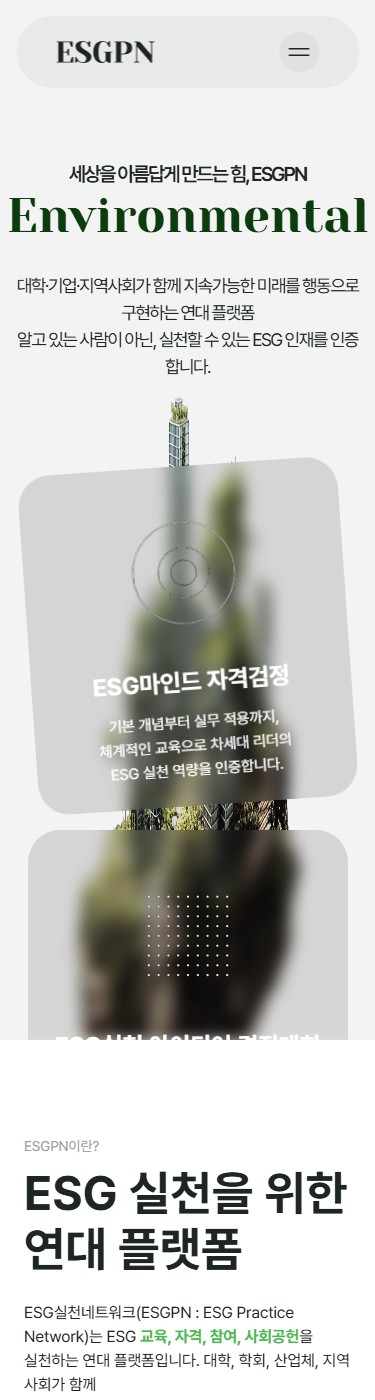
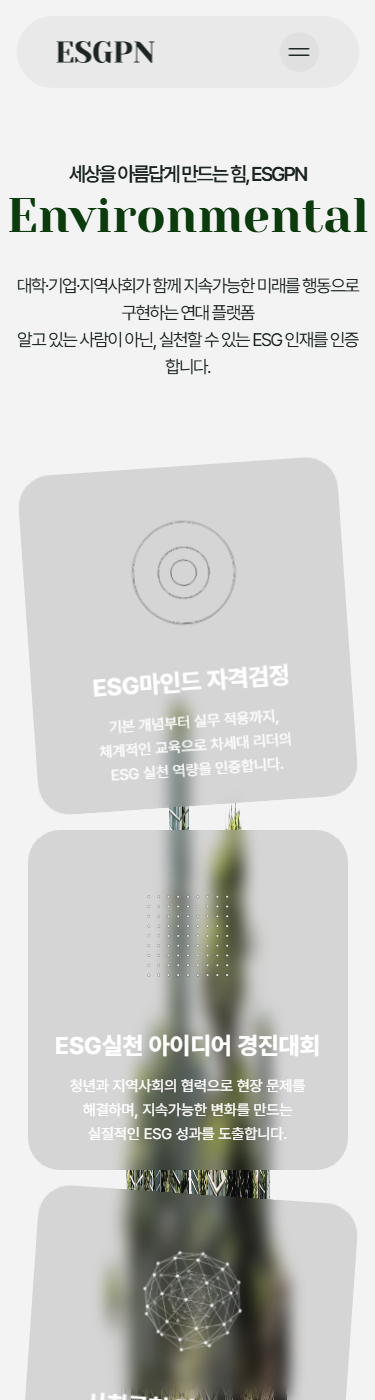
fix(main-hero): §8+§4-2 조합 — inner wrapper absolute inset-0 → relative xl:absolute
§8 적용 후 좁은 뷰포트에서 섹션 height=0 로 collapse됨.
inner wrapper가 absolute inset-0 면 함께 decouple 필수.

스킬 보강:
- patterns.md §8 에 '§8+§4-2 조합 케이스' 추가
- '§1-5 선점 섹션' 에서 overflow 재작성 금지 명시
- xl 뷰포트 자체 overflow 는 Figma 원본 의도라 수정 대상 아님 명시

diff --git a/src/components/sections/MainHero/MainHero.tsx b/src/components/sections/MainHero/MainHero.tsx
@@ -87,7 +87,7 @@ export function MainHero() {
       />
 
       {/* Inner 컨테이너: w 1102, padding 160/409/110 (반응형: px 축소) */}
-      <div className="absolute inset-0 flex flex-col items-center pt-[160px] pb-[110px] px-4 md:px-12 xl:px-[409px] z-10">
+      <div className="relative xl:absolute xl:inset-0 flex flex-col items-center pt-[160px] pb-[110px] px-4 md:px-12 xl:px-[409px] z-10">
         <div className="flex flex-col items-stretch gap-[86px] w-full max-w-[1102px]">
           {/* Heading + Body */}
           <div className="flex flex-col gap-8 w-full">

diff --git a/.claude/skills/responsive-polish/references/patterns.md b/.claude/skills/responsive-polish/references/patterns.md
@@ -165,6 +165,26 @@ Figma 1920 디자인은 섹션 높이가 픽셀 고정 (`h-[1040px]`, `h-[1888px
 - 같은 섹션에 `overflow-hidden` 없이 `absolute` 배치 자식이 있으면 좁은 뷰포트에서 튀어나갈 수 있음 → §4-2 decouple 병행
 - Hero 같이 배경 이미지가 섹션 bottom 에 뿌리박힌 디자인은 min-h 없이 단순 `xl:h-` 만 적용 권장 (배경은 `xl:overflow-hidden` 으로 clip)
 
+### §8 + §4-2 조합 (필수 케이스)
+섹션 루트에 §8 적용 + **내부 content wrapper가 `absolute inset-0` 인 경우** 같이 §4-2 decouple 필수:
+```diff
+<section className="... xl:h-[1040px] overflow-visible xl:overflow-hidden">
+-  <div className="absolute inset-0 flex flex-col items-center ...">
++  <div className="relative xl:absolute xl:inset-0 flex flex-col items-center ...">
+    {content}
+```
+이유: 섹션이 `xl:h-` 만 가지면 좁은 뷰포트에서 height=0 → `absolute inset-0` 자식도 height=0 → 내용 전부 top:0 에 쌓임. `relative` 로 전환해 normal flow에 진입시켜야 섹션이 콘텐츠 높이에 맞춰 자람.
+
+### §1-5 선점 섹션 (MainProgramsCard 같은 케이스)
+이미 `overflow-hidden xl:overflow-visible` 가 있는 섹션 (FloatingCity 가로 clip용) 은 **§8의 overflow 부분을 재작성하지 말 것**. height 만 `xl:` prefix 추가:
+```diff
+- className="... h-[805px] overflow-hidden xl:overflow-visible"
++ className="... xl:h-[805px] overflow-hidden xl:overflow-visible"
+```
+
+### xl 뷰포트 자체의 overflow (Figma 원본)
+`detect-cutoff.mjs` 가 xl 뷰포트에서 `v-overflow-clipped-content` 를 리포트할 수 있음 — 이는 Figma 원본 의도(content bottom > section height 를 designer가 알고 `overflow-hidden` 으로 clip). **§8 수정 대상 아님**. 1440/1920 에서만 보고되면 무시.
+
 ## §6. 금지 패턴
 
 - `hidden md:block` 로 모바일 전용 요소 만들기 — 디자이너 승인 필요
